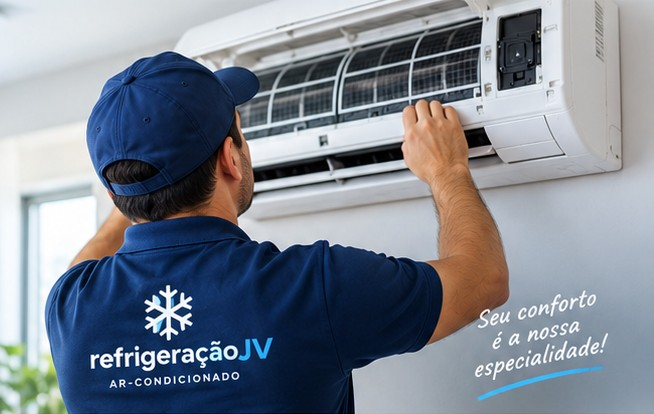
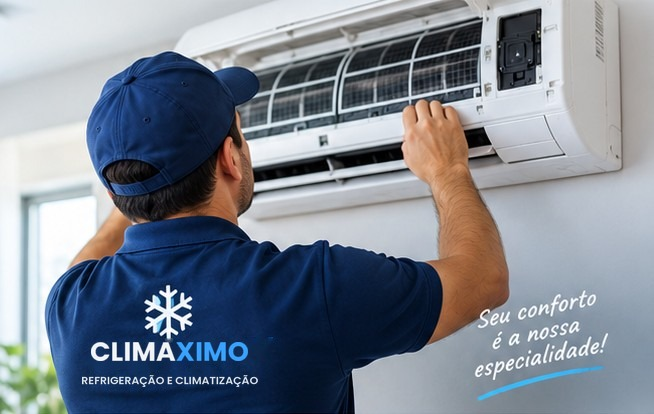
Add files via upload

Changed region(s): [[0.1223, 0.8116, 0.4281, 0.9565]]

diff --git a/index.html b/index.html
@@ -3,8 +3,8 @@
 <head>
 <meta charset="UTF-8">
 <meta name="viewport" content="width=device-width, initial-scale=1, viewport-fit=cover">
-<title>refrigeraçãoJV | Instalação, Manutenção e Higienização de Ar-Condicionado</title>
-<meta name="description" content="refrigeraçãoJV: instalação, manutenção preventiva e higienização de ar-condicionado. Solicite seu orçamento pelo WhatsApp.">
+<title>CLIMAXIMO Refrigeração e Climatização | Instalação, Manutenção e Higienização de Ar-Condicionado</title>
+<meta name="description" content="CLIMAXIMO Refrigeração e Climatização: instalação, manutenção preventiva e higienização de ar-condicionado. Solicite seu orçamento pelo WhatsApp.">
 <link rel="preconnect" href="https://fonts.googleapis.com">
 <link rel="preconnect" href="https://fonts.gstatic.com" crossorigin>
 <link href="https://fonts.googleapis.com/css2?family=Poppins:wght@400;500;600;700;800&family=Kalam:wght@700&display=swap" rel="stylesheet">
@@ -21,9 +21,9 @@
 
 <header>
   <div class="wrap nav">
-    <a class="logo" href="#inicio" aria-label="refrigeraçãoJV, ar-condicionado">
+    <a class="logo" href="#inicio" aria-label="CLIMAXIMO Refrigeração e Climatização">
       <svg aria-hidden="true"><use href="#i-flake"/></svg>
-      <span class="logo-text"><b>refrigeração<span class="jv">JV</span></b><small>AR-CONDICIONADO</small></span>
+      <span class="logo-text"><b>CLIMA<span class="jv">XIMO</span></b><small>REFRIGERAÇÃO E CLIMATIZAÇÃO</small></span>
     </a>
     <button class="menu-toggle" id="menu-toggle" aria-label="Abrir menu" aria-expanded="false" aria-controls="menu">
       <svg viewBox="0 0 24 24" fill="none" stroke="currentColor" stroke-width="2.4" stroke-linecap="round"><path d="M4 7h16M4 12h16M4 17h16"/></svg>
@@ -34,7 +34,7 @@
       <li><a href="#sobre">Sobre Nós</a></li>
       <li><a href="#contato">Contato</a></li>
     </ul>
-    <a class="btn btn-primary js-zap" href="#" data-msg="Olá, refrigeraçãoJV! Vim pelo site e gostaria de solicitar um orçamento.">
+    <a class="btn btn-primary js-zap" href="#" data-msg="Olá, Climaximo! Vim pelo site e gostaria de solicitar um orçamento.">
       <svg aria-hidden="true"><use href="#i-zap"/></svg>
       Solicite um Orçamento
     </a>
@@ -43,11 +43,11 @@
 
 <main>
   <section class="hero" id="inicio">
-    <div class="hero-img"><img src="img/capa-tecnico.jpg" alt="Técnico da refrigeraçãoJV fazendo manutenção em um ar-condicionado split"></div>
+    <div class="hero-img"><img src="img/capa-tecnico.jpg" alt="Técnico da CLIMAXIMO fazendo manutenção em um ar-condicionado split"></div>
     <div class="wrap hero-inner">
       <div class="hero-copy">
         <p class="eyebrow">Conforto e bem-estar em todos os ambientes</p>
-        <h1>refrigeração<span class="jv">JV</span></h1>
+        <h1>CLIMA<span class="jv">XIMO</span></h1>
         <h2>Instalação, Manutenção e Higienização de Ar-Condicionado</h2>
         <p class="lead">Seu ar-condicionado funcionando com eficiência, mais economia e qualidade do ar para você, sua família e seu ambiente de trabalho.</p>
         <ul class="perks">
@@ -55,7 +55,7 @@
           <li><svg viewBox="0 0 24 24" aria-hidden="true"><path fill="currentColor" d="M12 2 4 5v6c0 5 3.4 9.6 8 11 4.6-1.4 8-6 8-11V5l-8-3Z"/><path fill="none" stroke="#fff" stroke-width="2.2" stroke-linecap="round" stroke-linejoin="round" d="m8.5 12 2.5 2.5 4.5-5"/></svg>Qualidade<br>no serviço</li>
           <li><svg viewBox="0 0 24 24" aria-hidden="true"><path fill="none" stroke="currentColor" stroke-width="2" stroke-linecap="round" stroke-linejoin="round" d="M5 19c0-8 5-14 15-15-1 10-7 15-15 15ZM5 19l8-8"/></svg>Ar mais<br>saudável</li>
         </ul>
-        <a class="btn btn-primary btn-lg js-zap" href="#" data-msg="Olá, refrigeraçãoJV! Vim pelo site e gostaria de solicitar um orçamento.">
+        <a class="btn btn-primary btn-lg js-zap" href="#" data-msg="Olá, Climaximo! Vim pelo site e gostaria de solicitar um orçamento.">
           <svg aria-hidden="true"><use href="#i-zap"/></svg>
           Solicite um Orçamento
           <svg class="chev" aria-hidden="true"><use href="#i-chev"/></svg>
@@ -76,7 +76,7 @@
             <div class="card-icon"><svg viewBox="0 0 24 24" fill="none" stroke="currentColor" stroke-width="2.2" stroke-linecap="round" stroke-linejoin="round" aria-hidden="true"><path d="M14.7 6.3a4 4 0 0 0-5.4 5.4L3 18l3 3 6.3-6.3a4 4 0 0 0 5.4-5.4l-2.5 2.5-2.4-.6-.6-2.4z"/></svg></div>
             <h3>Instalação de Ar-Condicionado</h3>
             <p>Instalamos seu equipamento com segurança, seguindo as normas técnicas e do fabricante.</p>
-            <button type="button" class="js-zap" data-msg="Olá, refrigeraçãoJV! Gostaria de saber mais sobre a instalação de ar-condicionado.">Saiba mais <svg aria-hidden="true"><use href="#i-arrow"/></svg></button>
+            <button type="button" class="js-zap" data-msg="Olá, Climaximo! Gostaria de saber mais sobre a instalação de ar-condicionado.">Saiba mais <svg aria-hidden="true"><use href="#i-arrow"/></svg></button>
           </div>
         </article>
         <article class="card">
@@ -85,7 +85,7 @@
             <div class="card-icon"><svg viewBox="0 0 24 24" fill="none" stroke="currentColor" stroke-width="2" stroke-linecap="round" stroke-linejoin="round" aria-hidden="true"><rect x="3" y="5" width="18" height="16" rx="2"/><path d="M3 10h18M8 3v4M16 3v4M8 14h2M14 14h2M8 17.5h2"/></svg></div>
             <h3>Manutenção Preventiva</h3>
             <p>Evita falhas, aumenta a vida útil do aparelho e garante o melhor desempenho.</p>
-            <button type="button" class="js-zap" data-msg="Olá, refrigeraçãoJV! Gostaria de saber mais sobre a manutenção preventiva.">Saiba mais <svg aria-hidden="true"><use href="#i-arrow"/></svg></button>
+            <button type="button" class="js-zap" data-msg="Olá, Climaximo! Gostaria de saber mais sobre a manutenção preventiva.">Saiba mais <svg aria-hidden="true"><use href="#i-arrow"/></svg></button>
           </div>
         </article>
         <article class="card">
@@ -94,7 +94,7 @@
             <div class="card-icon"><svg viewBox="0 0 24 24" fill="currentColor" aria-hidden="true"><path d="M10 3.5c.5 3.3 2.2 5 5.5 5.5-3.3.5-5 2.2-5.5 5.5-.5-3.3-2.2-5-5.5-5.5 3.3-.5 5-2.2 5.5-5.5ZM17.5 12.5c.3 2 1.2 2.9 3.2 3.2-2 .3-2.9 1.2-3.2 3.2-.3-2-1.2-2.9-3.2-3.2 2-.3 2.9-1.2 3.2-3.2Z"/></svg></div>
             <h3>Higienização</h3>
             <p>Remove poeira, ácaros e bactérias, melhorando a qualidade do ar e sua saúde.</p>
-            <button type="button" class="js-zap" data-msg="Olá, refrigeraçãoJV! Gostaria de saber mais sobre a higienização de ar-condicionado.">Saiba mais <svg aria-hidden="true"><use href="#i-arrow"/></svg></button>
+            <button type="button" class="js-zap" data-msg="Olá, Climaximo! Gostaria de saber mais sobre a higienização de ar-condicionado.">Saiba mais <svg aria-hidden="true"><use href="#i-arrow"/></svg></button>
           </div>
         </article>
       </div>
@@ -106,7 +106,7 @@
       <div class="why-left">
         <svg class="flake-bg" aria-hidden="true"><use href="#i-flake"/></svg>
         <p class="eyebrow">Por que escolher a</p>
-        <h2>refrigeração<span class="jv">JV</span>?</h2>
+        <h2>CLIMA<span class="jv">XIMO</span>?</h2>
         <ul class="reasons">
           <li><svg viewBox="0 0 24 24" fill="none" stroke="currentColor" stroke-width="1.8" stroke-linecap="round" stroke-linejoin="round" aria-hidden="true"><path d="M12 2 4 5v6c0 5 3.4 9.6 8 11 4.6-1.4 8-6 8-11V5l-8-3Z"/><path d="m8.5 12 2.5 2.5 4.5-5"/></svg>Técnicos<br>especializados</li>
           <li><svg viewBox="0 0 24 24" fill="none" stroke="currentColor" stroke-width="1.8" stroke-linecap="round" stroke-linejoin="round" aria-hidden="true"><circle cx="12" cy="12" r="9"/><path d="M12 7v5l3 2"/></svg>Atendimento<br>rápido</li>
@@ -122,7 +122,7 @@
             <p>Entre em contato agora mesmo e solicite seu orçamento sem compromisso!</p>
           </div>
         </div>
-        <a class="btn btn-primary js-zap" href="#" data-msg="Olá, refrigeraçãoJV! Preciso de um serviço de ar-condicionado e gostaria de um orçamento.">
+        <a class="btn btn-primary js-zap" href="#" data-msg="Olá, Climaximo! Preciso de um serviço de ar-condicionado e gostaria de um orçamento.">
           <svg aria-hidden="true"><use href="#i-zap"/></svg>
           Solicite um Orçamento
           <svg class="chev" aria-hidden="true"><use href="#i-chev"/></svg>
@@ -135,7 +135,7 @@
     <div class="wrap about-grid">
       <img src="img/sobre.jpg" alt="Condensadora de ar-condicionado instalada em área externa">
       <div>
-        <h2>Sobre a <span>refrigeraçãoJV</span></h2>
+        <h2>Sobre a <span>CLIMAXIMO</span></h2>
         <p>Somos uma empresa especializada em instalação, manutenção preventiva e higienização de ar-condicionado, atuando com responsabilidade, qualidade e foco na satisfação dos nossos clientes.</p>
         <div class="commit">
           <svg viewBox="0 0 24 24" fill="none" stroke="currentColor" stroke-width="1.8" stroke-linecap="round" stroke-linejoin="round" aria-hidden="true"><rect x="3" y="5" width="18" height="15" rx="2"/><path d="M3 9h18M8 3v4M16 3v4M8.5 14.5l2.3 2.3 4.7-4.6"/></svg>
@@ -143,7 +143,7 @@
         </div>
       </div>
       <div class="contact-box" id="contato">
-        <a class="contact-item js-zap" href="#" data-msg="Olá, refrigeraçãoJV! Vim pelo site e gostaria de solicitar um orçamento.">
+        <a class="contact-item js-zap" href="#" data-msg="Olá, Climaximo! Vim pelo site e gostaria de solicitar um orçamento.">
           <svg aria-hidden="true"><use href="#i-zap"/></svg>
           <div><small>Fale Conosco</small><strong id="tel-display">(81) 8948-4064</strong><span>Atendimento rápido via WhatsApp</span></div>
         </a>
@@ -158,9 +158,9 @@
 
 <footer>
   <div class="wrap foot">
-    <a class="logo" href="#inicio" aria-label="refrigeraçãoJV, voltar ao início">
+    <a class="logo" href="#inicio" aria-label="CLIMAXIMO, voltar ao início">
       <svg aria-hidden="true"><use href="#i-flake"/></svg>
-      <span class="logo-text"><b>refrigeração<span class="jv">JV</span></b><small>AR-CONDICIONADO</small></span>
+      <span class="logo-text"><b>CLIMA<span class="jv">XIMO</span></b><small>REFRIGERAÇÃO E CLIMATIZAÇÃO</small></span>
     </a>
     <ul class="foot-menu">
       <li><a href="#inicio">Início</a></li>
@@ -170,15 +170,15 @@
     </ul>
     <div class="foot-right">
       <div class="socials">
-        <a href="#" class="js-zap" data-msg="Olá, refrigeraçãoJV!" aria-label="WhatsApp"><svg aria-hidden="true"><use href="#i-zap"/></svg></a>
+        <a href="#" class="js-zap" data-msg="Olá, Climaximo!" aria-label="WhatsApp"><svg aria-hidden="true"><use href="#i-zap"/></svg></a>
         <a href="https://www.instagram.com/refrigeracaojv" id="insta" target="_blank" rel="noopener" aria-label="Instagram"><svg viewBox="0 0 24 24" fill="none" stroke="currentColor" stroke-width="2" aria-hidden="true"><rect x="3" y="3" width="18" height="18" rx="5"/><circle cx="12" cy="12" r="4"/><circle cx="17.3" cy="6.7" r="1" fill="currentColor" stroke="none"/></svg></a>
       </div>
-      © <span id="ano"></span> refrigeraçãoJV. Todos os direitos reservados.
+      © <span id="ano"></span> CLIMAXIMO Refrigeração e Climatização. Todos os direitos reservados.
     </div>
   </div>
 </footer>
 
-<a class="float-zap js-zap" href="#" data-msg="Olá, refrigeraçãoJV! Vim pelo site e gostaria de solicitar um orçamento." aria-label="Falar no WhatsApp">
+<a class="float-zap js-zap" href="#" data-msg="Olá, Climaximo! Vim pelo site e gostaria de solicitar um orçamento." aria-label="Falar no WhatsApp">
   <svg aria-hidden="true"><use href="#i-zap"/></svg>
 </a>
 

diff --git a/css/style.css b/css/style.css
@@ -43,8 +43,8 @@ a { color: inherit; }
 .logo { display: inline-flex; align-items: center; gap: .65rem; text-decoration: none; }
 .logo svg { width: 46px; height: 46px; color: var(--blue); flex-shrink: 0; }
 .logo-text { display: flex; flex-direction: column; line-height: 1; }
-.logo-text b { font-size: 1.85rem; font-weight: 800; color: var(--ink); letter-spacing: -.02em; }
-.logo-text small { font-size: .62rem; font-weight: 600; letter-spacing: .38em; color: var(--ink); text-align: center; margin-top: .3rem; }
+.logo-text b { font-size: 1.7rem; font-weight: 800; color: var(--ink); letter-spacing: -.02em; }
+.logo-text small { font-size: .56rem; font-weight: 600; letter-spacing: .06em; white-space: nowrap; color: var(--ink); text-align: center; margin-top: .3rem; }
 
 /* Header */
 header { position: sticky; top: env(safe-area-inset-top, 0px); z-index: 20; background: var(--bg); box-shadow: 0 1px 0 var(--line); }
@@ -77,7 +77,7 @@ header { position: sticky; top: env(safe-area-inset-top, 0px); z-index: 20; back
 .hero-inner { position: relative; z-index: 2; padding: 2.6rem 0 2.8rem; }
 .hero-copy { max-width: 520px; }
 .eyebrow { color: var(--sky); font-weight: 600; font-size: .85rem; letter-spacing: .02em; text-transform: uppercase; margin: 0 0 .4rem; }
-.hero h1 { margin: 0; font-size: clamp(2.8rem, 6vw, 4.1rem); line-height: 1.05; font-weight: 800; color: var(--ink); letter-spacing: -.03em; }
+.hero h1 { margin: 0; font-size: clamp(2rem, 4.6vw, 3.3rem); line-height: 1.05; font-weight: 800; color: var(--ink); letter-spacing: -.02em; }
 .hero h2 { margin: .6rem 0 .8rem; font-size: clamp(1.25rem, 2.2vw, 1.6rem); line-height: 1.2; font-weight: 700; color: var(--ink); }
 .hero p.lead { margin: 0 0 1.4rem; font-size: 1.05rem; color: var(--text); max-width: 42ch; }
 .perks { display: flex; flex-wrap: wrap; gap: 0; list-style: none; margin: 0 0 1.8rem; padding: 0; }
@@ -155,7 +155,7 @@ header { position: sticky; top: env(safe-area-inset-top, 0px); z-index: 20; back
 footer { background: linear-gradient(100deg, #0A2756, #0E3672); color: #fff; padding: 1.2rem 0 1.4rem; }
 .foot { display: grid; grid-template-columns: auto 1fr auto; align-items: center; gap: 2rem; }
 footer .logo svg { color: #3AA2FF; width: 42px; height: 42px; }
-footer .logo-text b { color: #fff; font-size: 1.45rem; }
+footer .logo-text b { color: #fff; font-size: 1.2rem; }
 footer .logo-text b .jv { color: #3AA2FF; }
 footer .logo-text small { color: #fff; }
 .foot-menu { display: flex; justify-content: center; gap: 2.2rem; list-style: none; margin: 0; padding: 0; font-size: .85rem; }
@@ -205,7 +205,7 @@ footer .logo-text small { color: #fff; }
   .about-grid { grid-template-columns: 1fr; }
   .about-grid > img { height: 180px; }
   .contact-box { grid-template-columns: 1fr; }
-  .logo-text b { font-size: 1.45rem; }
+  .logo-text b { font-size: 1.12rem; }
   .logo svg { width: 38px; height: 38px; }
   .perks li { padding: .4rem .8rem .4rem 0; border-left: 0 !important; }
   .why-cta .btn { margin-left: 0; }
